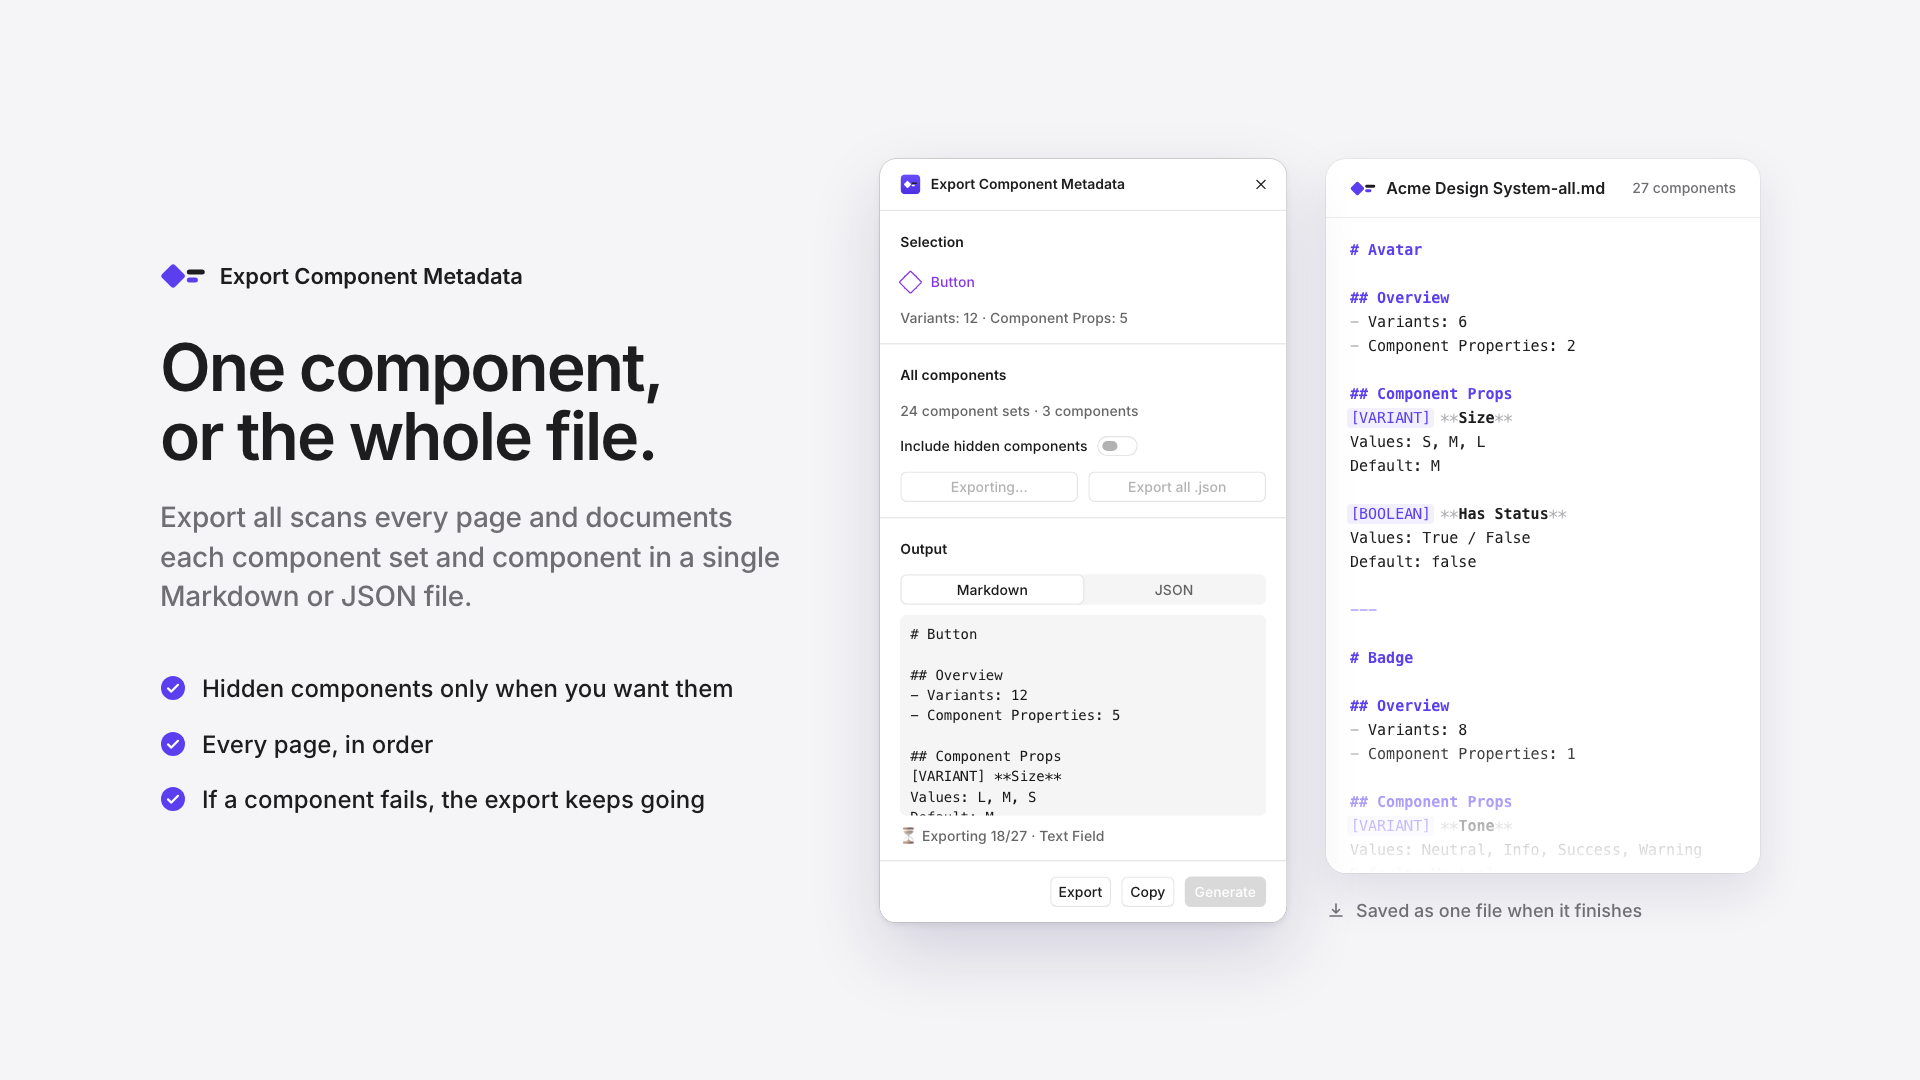
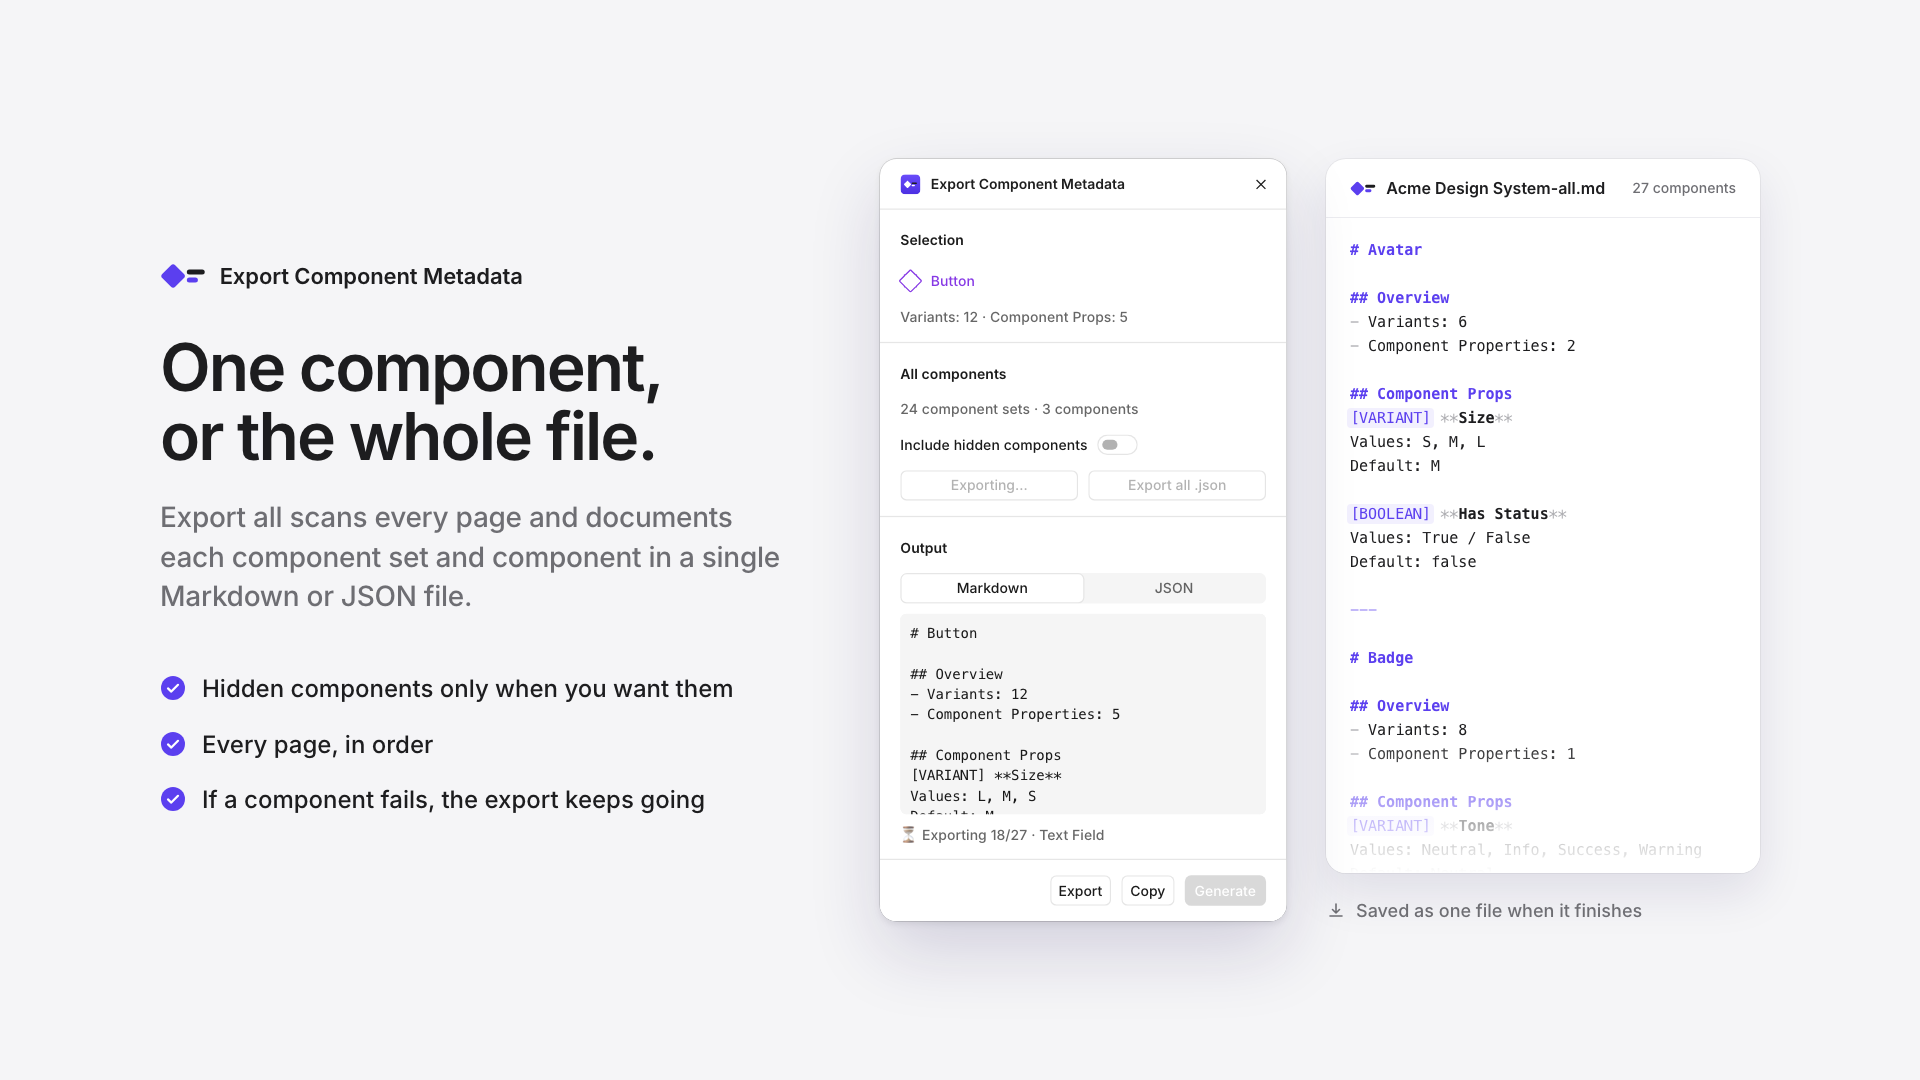
Regenerate every listing slide from a clean build
Rebuilt the plugin (dist/ui.html) from source, deleted the cover and the
seven gallery images, and rendered them again with a fresh Chrome profile.
The window title bar now includes its 1 px border in its 40 px height, so
every plugin window is exactly 600 px tall and centred on y = 540.

diff --git a/docs/publishing/src/base.css b/docs/publishing/src/base.css
@@ -16,7 +16,7 @@ h1{font-weight:600;font-size:66px;line-height:1.04;letter-spacing:-0.03em;margin
 .win{position:absolute;transform-origin:0 0;width:320px;border-radius:13px;overflow:hidden;background:#fff;
   box-shadow:0 0 0 .5px rgba(0,0,0,.18),0 2px 6px rgba(0,0,0,.08),0 24px 56px rgba(30,20,90,.16)}
 .win.dark{background:#2C2C2C;box-shadow:0 0 0 .5px rgba(255,255,255,.12),0 0 0 1px rgba(0,0,0,.4),0 2px 6px rgba(0,0,0,.2),0 24px 56px rgba(10,5,40,.35)}
-.win .bar{height:40px;display:flex;align-items:center;gap:8px;padding:0 8px 0 16px;font:600 11px/16px Inter;color:#1E1E1E;border-bottom:1px solid #E6E6E6}
+.win .bar{height:40px;box-sizing:border-box;display:flex;align-items:center;gap:8px;padding:0 8px 0 16px;font:600 11px/16px Inter;color:#1E1E1E;border-bottom:1px solid #E6E6E6}
 .win.dark .bar{color:#fff;border-bottom-color:#444}
 .win .bar img{width:16px;height:16px;border-radius:4px}
 .win .bar .x{margin-left:auto;width:24px;height:24px;display:grid;place-items:center}
